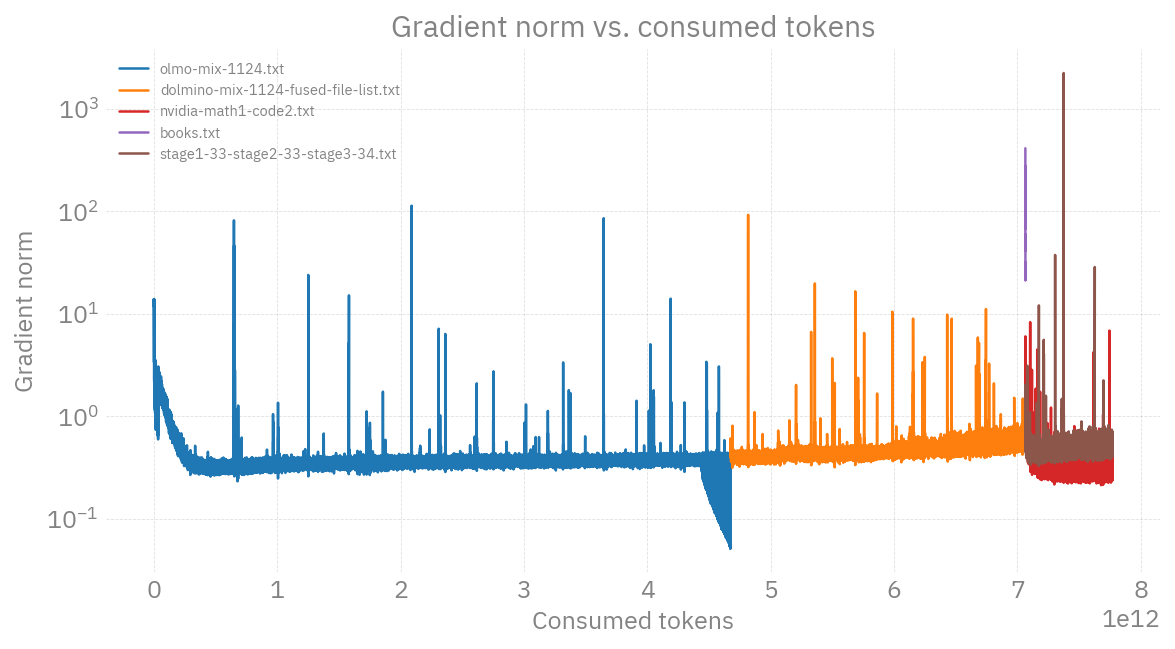
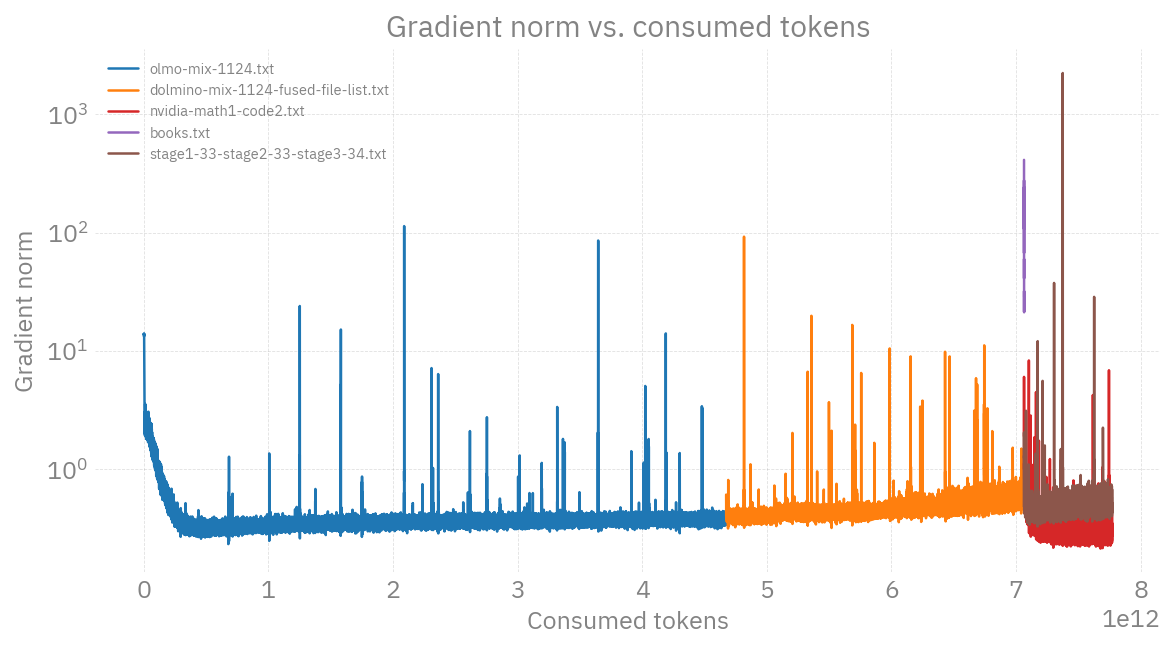
fix: Tighten AuroraGPT-2B training report filter
Match the latest W&B report filter exactly:
- exclude tag `cooldown`
- additionally exclude 11 more runs (happy-surf-4362, laced-puddle-4445,
  sage-universe-4443, dandy-sea-4440, twilight-dream-4439,
  vibrant-glitter-4358, dulcet-forest-4361, copper-pyramid-4359,
  lemon-aardvark-4360, sleek-tree-4390, autumn-sea-4394)

Re-renders all 12 panels; 82 -> 69 runs.

diff --git a/ALCF/AuroraGPT/2B/scripts/generate_report.py b/ALCF/AuroraGPT/2B/scripts/generate_report.py
@@ -55,6 +55,20 @@ REPORT_FILTERS: dict[str, Any] = {
             "grateful-dust-4351",
             "glowing-disco-4352",
         ]}},
+        {"displayName": {"$nin": [
+            "happy-surf-4362",
+            "laced-puddle-4445",
+            "sage-universe-4443",
+            "dandy-sea-4440",
+            "twilight-dream-4439",
+            "vibrant-glitter-4358",
+            "dulcet-forest-4361",
+            "copper-pyramid-4359",
+            "lemon-aardvark-4360",
+            "sleek-tree-4390",
+            "autumn-sea-4394",
+        ]}},
+        {"tags": {"$nin": ["cooldown"]}},
     ]
 }
 

diff --git a/ALCF/AuroraGPT/2B/TRAINING_REPORT.md b/ALCF/AuroraGPT/2B/TRAINING_REPORT.md
@@ -26,7 +26,12 @@ The same 22-clause filter as the report:
 - `world_size IN {3072, 6240}`, `num_layers IN {4..20}`
 - `tokenizer_model = google/gemma-7b`
 - summary `loss/lm loss` is not `NaN`
-- excluded: `treasured-thunder-4350`, `grateful-dust-4351`, `glowing-disco-4352`
+- tag is not `cooldown`
+- excluded: `treasured-thunder-4350`, `grateful-dust-4351`, `glowing-disco-4352`,
+  `happy-surf-4362`, `laced-puddle-4445`, `sage-universe-4443`, `dandy-sea-4440`,
+  `twilight-dream-4439`, `vibrant-glitter-4358`, `dulcet-forest-4361`,
+  `copper-pyramid-4359`, `lemon-aardvark-4360`, `sleek-tree-4390`,
+  `autumn-sea-4394`
 
 Curves are grouped by
 `(machine, NHOSTS, torch_version, global_batch_size, optimizer, data_file_list)`
